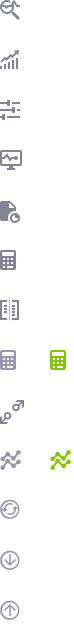
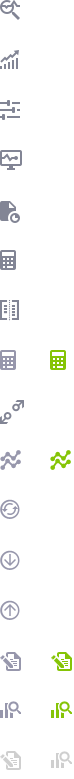
운영배포

diff --git a/server/public/assets/css/common.css b/server/public/assets/css/common.css
@@ -313,7 +313,7 @@ table.tbl_type{border-spacing: 0 !important; border-bottom:0;}
 .tbl_type,.tbl_type th,.tbl_type td{border:0}
 .tbl_type{border-bottom:1px solid #eeeeee;font-size:14px;text-align:center}
 .tbl_type caption{display:none}
-.tbl_type th{padding:8px 17px 8px 12px; border-top:1px solid #eeeeee;border-bottom:1px solid #eeeeee; color:#878793; font-size:12px; font-weight:400; line-height:12px;background:#ffffff;}
+.tbl_type th{padding:8px 17px 8px 12px; border-top:1px solid #eeeeee;border-bottom:1px solid #eeeeee; color:#6f6f77; font-size:12px; font-weight:400; line-height:12px;background:#ffffff;}
 .tbl_type th.th_line{border-top:none;}
 .tbl_type th.txt_left{text-align: left;}
 .tbl_type th.txt_right{text-align: right;}
@@ -361,6 +361,7 @@ table.tbl_type{border-spacing: 0 !important; border-bottom:0;}
 .tbl_type.ver8 td{font-size:14px !important; font-weight: 400 !important;}
 .tbl_type.ver9 td{font-size:12px !important; font-weight: 600 !important;}
 .tbl_type.ver10{width:100% !important;}
+.tbl_type.ver10 th{background-color:#f3f3f3; border-top:1px solid #eaeaea !important; border-bottom:1px solid #d9d9d9 !important;}
 .tbl_type.ver10 tr.sum{background-color:#fcf4f1;}
 .tbl_type.ver10 td input{background:#ffffff;}
 .tbl_type.ver10 td span.add_btn_span{display:inline-block; height:30px; vertical-align: middle}
@@ -368,7 +369,7 @@ table.tbl_type{border-spacing: 0 !important; border-bottom:0;}
 .tbl_type.ver10 td.td_in_input button{vertical-align: middle;}
 .tbl_type.ver11{border-top:1px solid #bbbbbb; width: 80%; margin:0 auto; margin-top:15px; margin-bottom:15px; }
 .tbl_type.ver11 th{background:#f2f2f2; font-size: 14px; text-align: right; }
-.tbl_type.ver12{width:1380px; margin:0 10px; margin-bottom:20px;}
+.tbl_type.ver12{width:1380px; margin:0 10px;}
 
 /*테이블 header고정*/
 caption {
@@ -911,11 +912,19 @@ input[type='file']{
 .lpchart_icon{width:30px; height:30px; background: url(../img/oper_list_icon.png) no-repeat 2px -445px; display:inline-block;}
 .lpchart_icon:hover{width:30px; height:30px; background: url(../img/oper_list_icon.png) no-repeat -48px -445px; display:inline-block;}
 
+
 .grav_icon{width:20px; height:25px; background: url(../img/oper_list_icon.png) no-repeat 0px -499px; display:inline-block; margin-right: 5px; vertical-align: middle;}
 .extr_icon{width:20px; height:25px; background: url(../img/oper_list_icon.png) no-repeat 0px -549px; display:inline-block; margin-right: 5px; vertical-align: middle;}
 .trans_icon{width:20px; height:25px; background: url(../img/oper_list_icon.png) no-repeat 0px -599px; display:inline-block; margin-right: 5px; vertical-align: middle;}
 
+.simul_icon1{width:30px; height:30px; background: url(../img/oper_list_icon.png) no-repeat 0px -646px; display:inline-block;}
+.simul_icon1:hover{width:30px; height:30px; background: url(../img/oper_list_icon.png) no-repeat -51px -646px; display:inline-block;}
 
+.simul_icon2{width:30px; height:30px; background: url(../img/oper_list_icon.png) no-repeat 4px -694px; display:inline-block;}
+.simul_icon2:hover{width:30px; height:30px; background: url(../img/oper_list_icon.png) no-repeat -47px -694px; display:inline-block;}
+
+.simul_icon1.disable{width:30px; height:30px; background: url(../img/oper_list_icon.png) no-repeat 0px -745px; display:inline-block; cursor: unset; }
+.simul_icon2.disable{width:30px; height:30px; background: url(../img/oper_list_icon.png) no-repeat -46px -745px; display:inline-block; cursor: unset;}
 
 .ETPInavpop1 .theme--light.v-list{background: #fff;}
 .ETPInavpop1 .v-list__tile__title{width:180px;}
@@ -1077,7 +1086,7 @@ h4 span.excel_btn{float:right; margin-right:25px;}
 .mar15{margin-top:15px !important;}
 
 .btn_only_r{width: 100%; height: 25px;}
-.btn_only_r .btn_rr{ display:inline-block; float: right; margin-right: 15px;}
+.btn_only_r .btn_rr{ display:block; float: right; margin-right: 15px;}
 
 
 /*.simul_port_w .insize{width:160px;}
@@ -1085,7 +1094,7 @@ h4 span.excel_btn{float:right; margin-right:25px;}
 .simul_port_w .insize .v-messages{display:none;}
 .simul_port_w .insize .v-text-field__details{display: none;}*/
 
-.simul_del_btn{line-height: 19px !important; color:#9797ac !important; font-size: 24px !important;}
+.simul_more_btn{line-height: 19px !important; color:#9797ac !important; font-size: 24px !important;}
 .simu_btn_r{float: right;}
 .register_wrap .left_w{float: left;}
 .register_wrap .left_w span.intext{ padding-right:5px; display:inline-block; vertical-align: middle}
